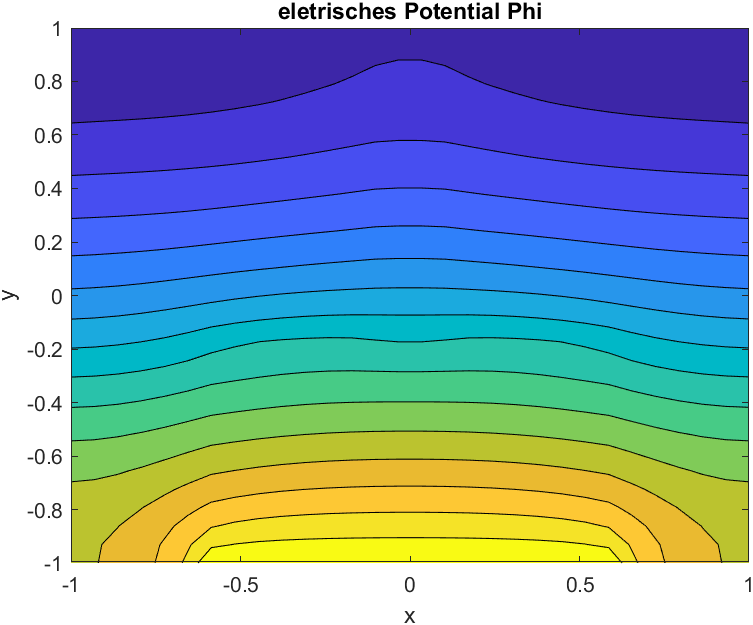
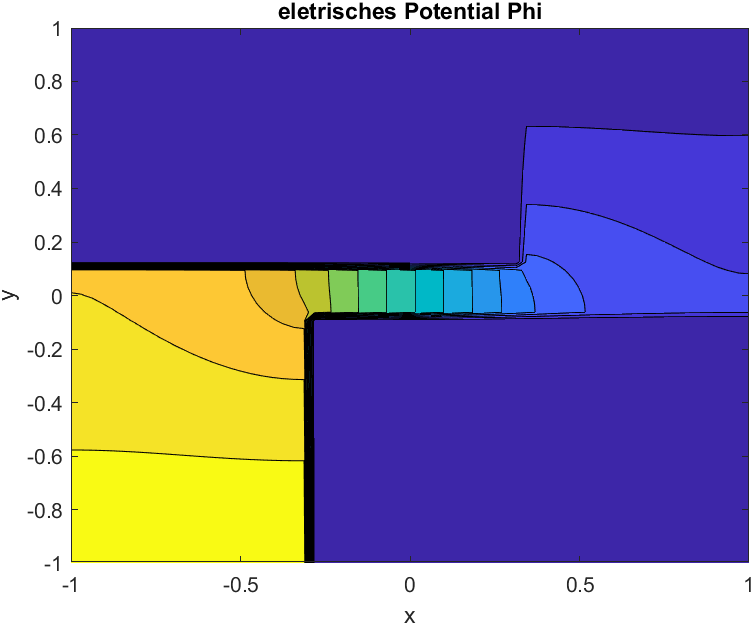
new material distribution

diff --git a/electro-thermal/createBoxes.m b/electro-thermal/createBoxes.m
@@ -1,52 +1,63 @@
 %% Create Material and Charge Distributions here
-function [kappaBox, lambdaBox, epsBox, tempBox, potBox] = createBoxes(msh, kappa, lambda, epsilon, potential, width, height)
+function [kappaBox, lambdaBox, epsBox, tempBox, potBox] = createBoxes(msh, kappa, lambda, epsilon, potential, diameter)
 
 disp('erstelle Verteilungen mit Box Mesher')
 lambda_air = 0.026;
 temp_air = 0;
 eps0 = 8.85e-12;
-y_len = floor(msh.ny*0.6);
+
+if ceil(diameter) < 1
+    connector = 1;
+else
+    connector = round(diameter);
+end
+
+outer_height = ceil(msh.ny*0.5) + connector;
+% calc geometric quantities
+outer_width = ceil(msh.nx*0.33);
+inner_width = msh.nx - 2*outer_width;
 
 %% --- volume allocated: Kappa, Lambda, epsilon 
 
 % --- Creating kappa Distribution -----------------------------------------
-boxeskappa(1).box = [msh.nx/2-width/2+1, msh.nx/2+width/2-1, 1, msh.ny-y_len, 1, msh.nz];
-boxeskappa(2).box = [msh.nx/2-1, msh.nx/2+1, msh.ny-y_len+1, msh.ny-3, 1, msh.nz];
-boxeskappa(1).value = kappa; % in conductor
-boxeskappa(2).value = kappa; % in conductor
-defaultkappa = 0;
+
+boxeskappa(1).box = [1, outer_width+inner_width, outer_height+1, msh.ny, 1, msh.nz];
+boxeskappa(1).value = 0; 
+boxeskappa(2).box = [outer_width+1, msh.nx, 1, msh.ny-outer_height, 1, msh.nz];
+boxeskappa(2).value = 0;
+defaultkappa = kappa;
 kappaBox = boxMesher(msh, boxeskappa, defaultkappa);
 
 % --- Creating lambda Distribution ----------------------------------------
 boxeslambda = boxeskappa;
-boxeslambda(1).value = lambda;
-boxeslambda(2).value = lambda;
-defaultlambda = lambda_air;
+boxeslambda(1).value = lambda_air;
+boxeslambda(2).value = lambda_air;
+defaultlambda = lambda;
 lambdaBox = boxMesher(msh, boxeslambda, defaultlambda);
 
 % --- Creating epsilon Distribution ---------------------------------------
 boxeseps = boxeskappa;
-boxeseps(1).value = epsilon;
-boxeseps(2).value = epsilon;
-defaulteps = eps0;
+boxeseps(1).value = eps0;
+boxeseps(2).value = eps0;
+defaulteps = epsilon;
 epsBox = boxMesher(msh, boxeseps, defaulteps);
 
 %% --- Node Allocated: potential and temp
 
 % --- Creating initial potential Distribution -----------------------------
-boxespot(1).box = [msh.nx/2-width/2+1, msh.nx/2+width/2, 1, height, 1, msh.nz];
+boxespot(1).box = [1, outer_width, 1, 2, 1, msh.nz];
 boxespot(1).value = potential;
+boxespot(2).box = [outer_width+inner_width+1, msh.nx, msh.ny-1, msh.ny, 1, msh.nz];
+boxespot(2).value = 0;
 defaultpot = NaN;
 potBox = boxMesher(msh, boxespot, defaultpot);
 
 % --- Creating initial heat Distribution ----------------------------------
-boxestemp(1).box = [msh.nx/2-width/2+1, msh.nx/2+width/2, 1, msh.ny-y_len, 1, msh.nz];
-boxestemp(1).value = NaN; 
-boxestemp(2).box = [msh.nx/2-1, msh.nx/2+2, msh.ny-y_len+1, msh.ny-2, 1, msh.nz];
-boxestemp(2).value = NaN;
-boxestemp(3).box = [msh.nx/2-width/2+1, msh.nx/2+width/2, 1, height, 1, msh.nz];
-boxestemp(3).value = temp_air;
-defaulttemp = temp_air;
+boxestemp(1).box = [1, outer_width+inner_width+1, outer_height, msh.ny, 1, msh.nz];
+boxestemp(1).value = temp_air; 
+boxestemp(2).box = [outer_width, msh.nx, 1, msh.ny-outer_height, 1, msh.nz];
+boxestemp(2).value = temp_air;
+defaulttemp = NaN;
 tempBox = boxMesher(msh, boxestemp, defaulttemp);
 
 

diff --git a/electro-thermal/main.m b/electro-thermal/main.m
@@ -2,14 +2,14 @@
 
 clearvars;
 % Quellparameter
-src_potential = 1;             % [V]
-src_width = 18;                 % in cells
-src_height = 1;
+src_potential = 10;             % [V]
 
 % Material in in Leiterstreifen (Kupfer)
 cond_kappa = 5.8e7;             % [S/m] 
-cond_lambda = 400.0;            % [W/mK] 
+cond_lambda = 390.0;            % [W/mK] 
 cond_epsilon = 1.9*8.85e-12;    % [F/m]
+
+diameter = 2; % integer cell count
 
 
 %% --- MESH ---------------------------------------------------------------
@@ -17,11 +17,11 @@ cond_epsilon = 1.9*8.85e-12;    % [F/m]
 % Randbedingungen
 bc = [0,0,0,0,0,0];
 
-xmesh = linspace(-1,1,30);
-ymesh = linspace(-1,1,30);
-zmesh = linspace(0,1,3);
+xmesh = linspace(-1,1,65);
+ymesh = linspace(-1,1,65);
+zmesh = linspace(0,1,2);
 msh = cartMesh(xmesh, ymesh, zmesh);
-[kappa, lambda, epsilon, temps, pots] = createBoxes(msh, cond_kappa, cond_lambda, cond_epsilon, src_potential, src_width, src_height);
+[kappa, lambda, epsilon, temps, pots] = createBoxes(msh, cond_kappa, cond_lambda, cond_epsilon, src_potential, diameter);
 
 %% --- Topologie und Material Matrizen ------------------------------------
 
@@ -34,11 +34,11 @@ Meps = createMeps(msh, ds, da, dat, epsilon, bc);
 Mkap = createMeps(msh, ds, da, dat, kappa, bc);
 Mlam = createMeps(msh, ds, da, dat, lambda, bc); 
 
-%% --- E-Statik und J-Statik lösen ----------------------------------------
+%% --- J-Statik lösen -----------------------------------------------------
 
-% Berechnung Systemmatrix: div(eps*grad(phi)) = 0
+% Berechnung Systemmatrix: div(kap*grad(phi)) = 0
 q = zeros(msh.np,1);
-A = st*Meps*st';
+A = st*Mkap*st';
 % Modifikation Systemmatrix und Ladungsvektor mit modPots
 [A, q] = modPots(A, q, pots);
 % Gleichungssystem lösen mit gmres(20)
@@ -79,13 +79,13 @@ theta(idx) = y;
 plotPotential(msh, phi, 1);
 title("eletrisches Potential Phi");
 
-figure()
-plotEdgeVoltage(msh, jbow, 1, bc)
+figure();
+plotEdgeVoltage(msh, jbow, 1, bc);
 title("stationäres Strömungsfeld J");
 
 figure();
 [X,Y] = meshgrid(msh.xmesh, msh.ymesh);
-theta_surf = reshape(theta(1:msh.nx*msh.ny), [msh.nx, msh.ny]);
+theta_surf = reshape(theta(1:msh.nx*msh.ny)+1, [msh.nx, msh.ny]);
 surf(X,Y,theta_surf');
 colormap('hot');
 view(0,90);
